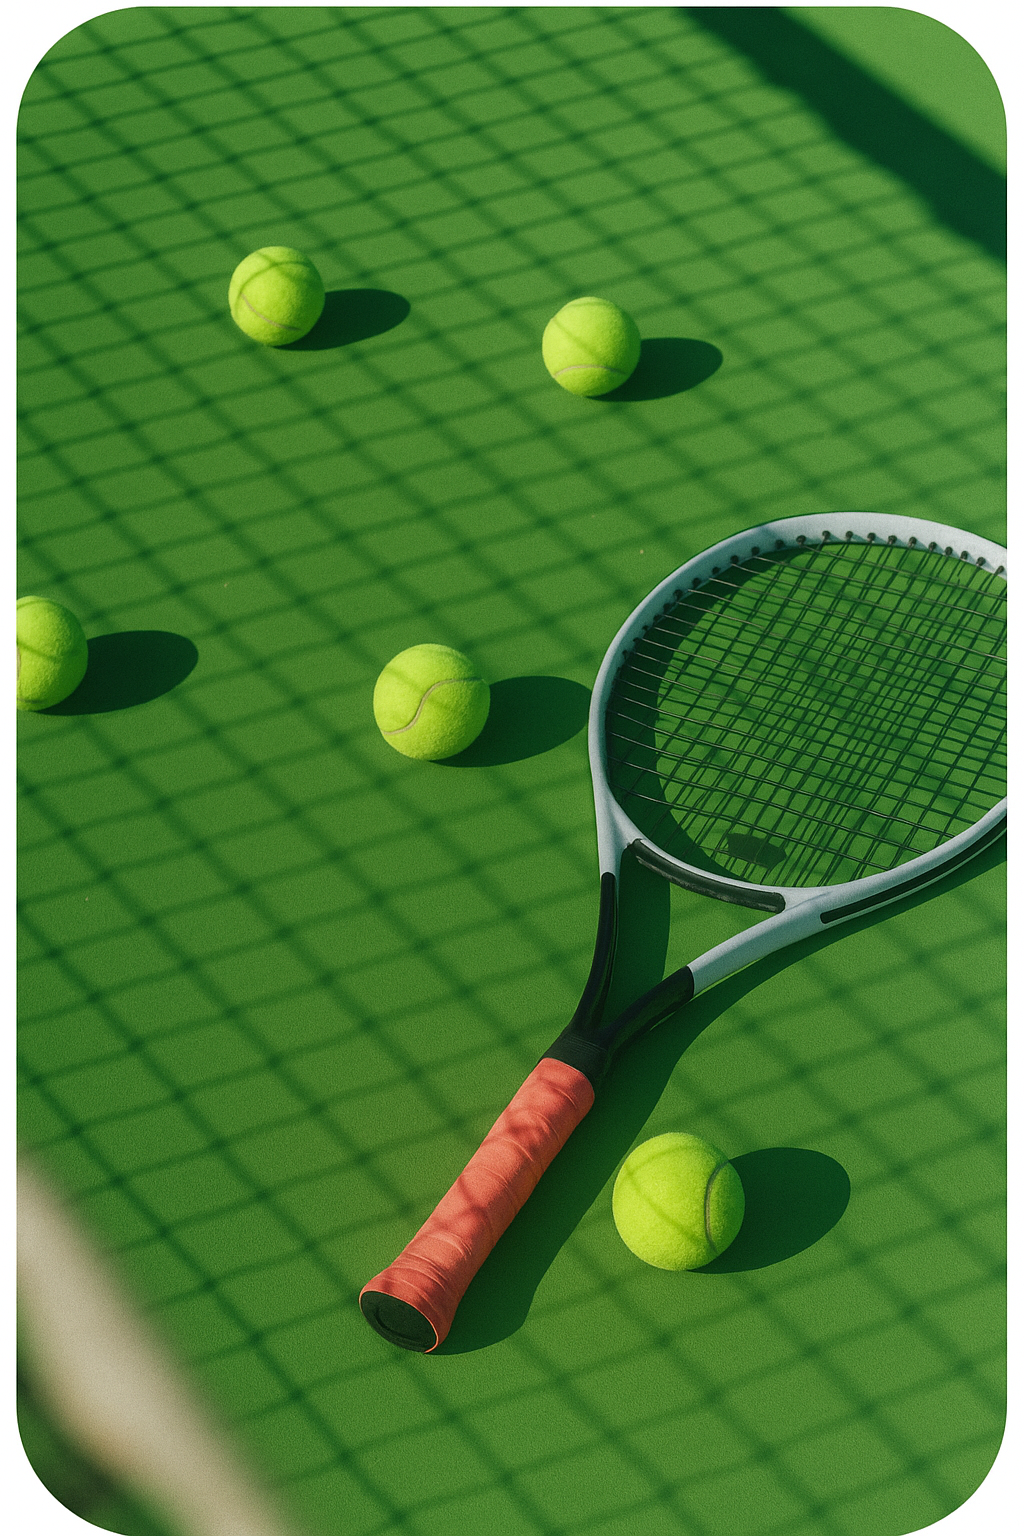
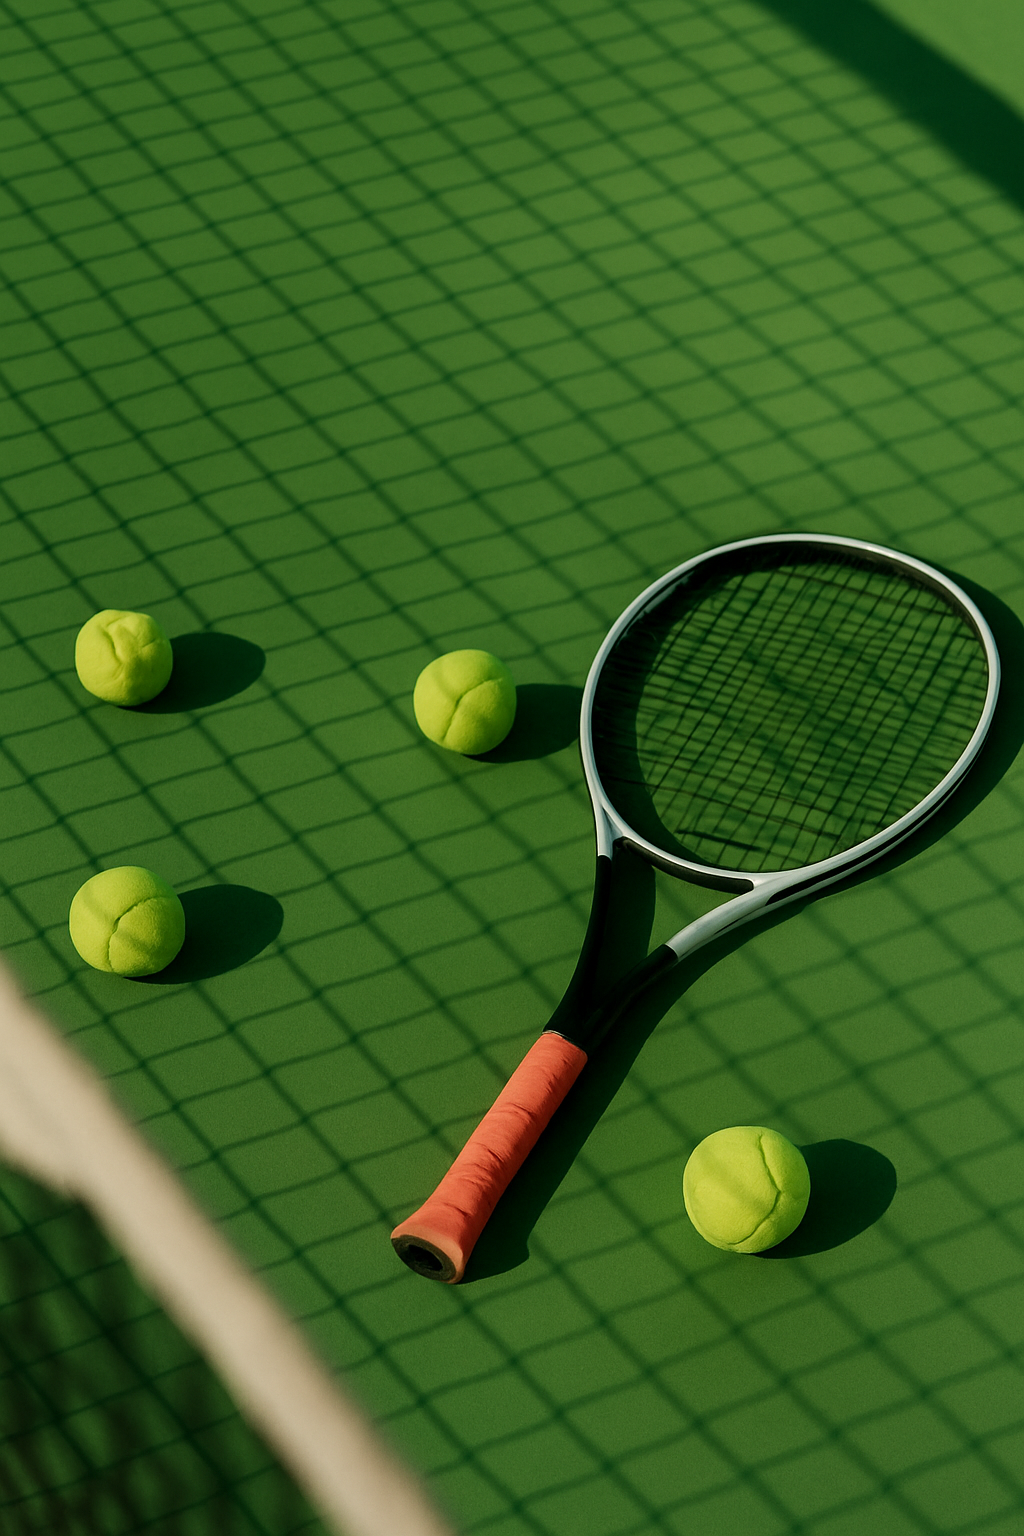
Added photo and color

diff --git a/src/App.scss b/src/App.scss
@@ -135,7 +135,7 @@ nav {
         color: rgba(255, 255, 255, 0.76);
         font-weight: 500;
         span {
-          background-color: #f3500d;
+          background-color: #FE4C00;
           border-radius: 10px;
           padding: 2px 5px;
           font-size: 0.6rem;
@@ -280,7 +280,7 @@ nav {
           span {
             margin-right: 0.5rem;
             i {
-              color: #f3500d;
+              color: #FE4C00;
             }
           }
         }
@@ -316,6 +316,8 @@ nav {
     .rightRight {
       background-image: url("./ball.png");
       background-position: center;
+          background-size: cover;
+
       width: 50%;
       border-radius: 20px;
       display: flex;
@@ -492,7 +494,7 @@ nav {
           }
         }
         .rightArrow {
-          background-color: #f3500d;
+          background-color: #FE4C00;
           height: 3.5rem;
           width: 3.5rem;
           border-radius: 50%;
@@ -549,6 +551,8 @@ nav {
       height: 70vh;
       border-radius: 30px;
       background-position: center;
+          background-size: cover;
+
       padding: 2rem 2rem;
       .top {
         display: flex;
@@ -584,7 +588,7 @@ nav {
             justify-content: center;
             border-radius: 50%;
             i {
-              color: #f3500d;
+              color: #FE4C00;
             }
           }
           .twoK {
@@ -640,8 +644,9 @@ nav {
   .left {
     width: 50%;
     height: 90vh;
-    background-image: url("./racket.png");
+    background-image: url("./goal.png");
     background-position: center;
+    background-size: cover;
     border-radius: 30px;
     display: flex;
     align-items: center;
@@ -671,7 +676,7 @@ nav {
         }
         .eightSeven {
           @include centerPos;
-          background-color: #f3500d;
+          background-color: #FE4C00;
           padding: 0.2rem 0.5rem;
           border-radius: 15px;
           color: white;
@@ -712,7 +717,7 @@ nav {
           @include centerPos;
           span {
             @include dot;
-            background-color: #f3500d;
+            background-color: #FE4C00;
             height: 8px;
             width: 8px;
           }
@@ -771,7 +776,7 @@ nav {
       .eight {
         height: 1.5rem;
         width: 1.5rem;
-        background-color: #f3500d;
+        background-color: #FE4C00;
         color: white;
         font-size: 0.8rem;
         margin-left: 0.2rem;
@@ -810,7 +815,7 @@ nav {
               height: 6rem;
               width: 6rem;
               border-radius: 50%;
-              background-color: #f3500d;
+              background-color: #FE4C00;
               @include centerPos;
               i {
                 font-size: 2.3rem;
@@ -830,8 +835,9 @@ nav {
         .image {
           border-top-left-radius: 30px;
           border-top-right-radius: 30px;
-          background-image: url("./racket.png");
+          background-image: url("./boyBall.png");
           background-position: center;
+              background-size: cover;
           height: 40vh;
           display: flex;
           flex-direction: column;
@@ -923,7 +929,6 @@ nav {
       }
     }
     .win {
-      // background-color: #f3500d;
       text-align: left;
       width: 68%;
       font-size: 3.5rem;
@@ -955,7 +960,7 @@ nav {
       opacity: 0.1;
     }
     .youth {
-      background-color: #f3500d;
+      background-color: #FE4C00;
       border-radius: 15px;
       padding: 1rem 1rem;
       position: relative;
@@ -992,7 +997,7 @@ nav {
       }
       .overlay {
         position: absolute;
-        background-image: url("./racket.png");
+        background-image: url("./girl.png");
         background-position: center;
         background-size: cover;
         height: 40vh;
@@ -1126,7 +1131,7 @@ nav {
               height: 3rem;
               width: 3rem;
               border-radius: 50%;
-              background-color: #f3500d;
+              background-color: #FE4C00;
               left: 50%;
               display: flex;
               align-items: center;
@@ -1143,7 +1148,7 @@ nav {
       }
     }
     .right {
-      background-image: url("./racket.png");
+      background-image: url("./girl2.png");
       background-position: center;
       background-size: cover;
       padding: 2rem;
@@ -1257,7 +1262,7 @@ nav {
       flex-direction: column;
       justify-content: space-between;
       position: relative;
-      background-image: url("./racket.png");
+      background-image: url("./boy2.png");
       background-position: center;
       background-size: cover;
       padding: 1rem;
@@ -1329,7 +1334,7 @@ nav {
         }
       }
       .bottom {
-        background-color: #f3500d;
+        background-color:  #FE4C00;
         height: 7rem;
         width: 7rem;
         border-radius: 50%;

diff --git a/src/App.css b/src/App.css
@@ -103,7 +103,7 @@ nav .detail .menu h4 {
   font-weight: 500;
 }
 nav .detail .menu h4 span {
-  background-color: #f3500d;
+  background-color: #FE4C00;
   border-radius: 10px;
   padding: 2px 5px;
   font-size: 0.6rem;
@@ -252,7 +252,7 @@ nav .detail .toggle .sun {
   margin-right: 0.5rem;
 }
 .view2 .right .rightLeft .top h2 span i {
-  color: #f3500d;
+  color: #FE4C00;
 }
 .view2 .right .rightLeft .top p {
   width: 74%;
@@ -284,6 +284,7 @@ nav .detail .toggle .sun {
 .view2 .right .rightRight {
   background-image: url("./ball.png");
   background-position: center;
+  background-size: cover;
   width: 50%;
   border-radius: 20px;
   display: flex;
@@ -471,7 +472,7 @@ nav .detail .toggle .sun {
   font-size: 1.5rem;
 }
 .view3 .three .left .circle .rightArrow {
-  background-color: #f3500d;
+  background-color: #FE4C00;
   height: 3.5rem;
   width: 3.5rem;
   border-radius: 50%;
@@ -541,6 +542,7 @@ nav .detail .toggle .sun {
   height: 70vh;
   border-radius: 30px;
   background-position: center;
+  background-size: cover;
   padding: 2rem 2rem;
 }
 .view3 .three .racket .top {
@@ -577,7 +579,7 @@ nav .detail .toggle .sun {
   border-radius: 50%;
 }
 .view3 .three .racket .top .icon span i {
-  color: #f3500d;
+  color: #FE4C00;
 }
 .view3 .three .racket .top .icon .twoK {
   font-weight: 400;
@@ -640,8 +642,9 @@ nav .detail .toggle .sun {
 .view4 .left {
   width: 50%;
   height: 90vh;
-  background-image: url("./racket.png");
+  background-image: url("./goal.png");
   background-position: center;
+  background-size: cover;
   border-radius: 30px;
   display: flex;
   align-items: center;
@@ -678,7 +681,7 @@ nav .detail .toggle .sun {
   display: flex;
   align-items: center;
   justify-content: center;
-  background-color: #f3500d;
+  background-color: #FE4C00;
   padding: 0.2rem 0.5rem;
   border-radius: 15px;
   color: white;
@@ -733,7 +736,7 @@ nav .detail .toggle .sun {
   border-radius: 50%;
   display: inline-block;
   margin-right: 0.4rem;
-  background-color: #f3500d;
+  background-color: #FE4C00;
   height: 8px;
   width: 8px;
 }
@@ -802,7 +805,7 @@ nav .detail .toggle .sun {
 .view4 .right .icons .eight {
   height: 1.5rem;
   width: 1.5rem;
-  background-color: #f3500d;
+  background-color: #FE4C00;
   color: white;
   font-size: 0.8rem;
   margin-left: 0.2rem;
@@ -841,7 +844,7 @@ nav .detail .toggle .sun {
   height: 6rem;
   width: 6rem;
   border-radius: 50%;
-  background-color: #f3500d;
+  background-color: #FE4C00;
   display: flex;
   align-items: center;
   justify-content: center;
@@ -860,8 +863,9 @@ nav .detail .toggle .sun {
 .view4 .right .rightBottom .rightBottomRight .image {
   border-top-left-radius: 30px;
   border-top-right-radius: 30px;
-  background-image: url("./racket.png");
+  background-image: url("./boyBall.png");
   background-position: center;
+  background-size: cover;
   height: 40vh;
   display: flex;
   flex-direction: column;
@@ -996,7 +1000,7 @@ nav .detail .toggle .sun {
   opacity: 0.1;
 }
 .view5 .bottom .youth {
-  background-color: #f3500d;
+  background-color: #FE4C00;
   border-radius: 15px;
   padding: 1rem 1rem;
   position: relative;
@@ -1033,7 +1037,7 @@ nav .detail .toggle .sun {
 }
 .view5 .bottom .youth .overlay {
   position: absolute;
-  background-image: url("./racket.png");
+  background-image: url("./girl.png");
   background-position: center;
   background-size: cover;
   height: 40vh;
@@ -1183,7 +1187,7 @@ nav .detail .toggle .sun {
   height: 3rem;
   width: 3rem;
   border-radius: 50%;
-  background-color: #f3500d;
+  background-color: #FE4C00;
   left: 50%;
   display: flex;
   align-items: center;
@@ -1194,7 +1198,7 @@ nav .detail .toggle .sun {
   font-size: 1.5rem;
 }
 .view6 .bottom .right {
-  background-image: url("./racket.png");
+  background-image: url("./girl2.png");
   background-position: center;
   background-size: cover;
   padding: 2rem;
@@ -1318,7 +1322,7 @@ nav .detail .toggle .sun {
   flex-direction: column;
   justify-content: space-between;
   position: relative;
-  background-image: url("./racket.png");
+  background-image: url("./boy2.png");
   background-position: center;
   background-size: cover;
   padding: 1rem;
@@ -1400,7 +1404,7 @@ nav .detail .toggle .sun {
   letter-spacing: -1px;
 }
 .view7 .one .last .bottom {
-  background-color: #f3500d;
+  background-color: #FE4C00;
   height: 7rem;
   width: 7rem;
   border-radius: 50%;
